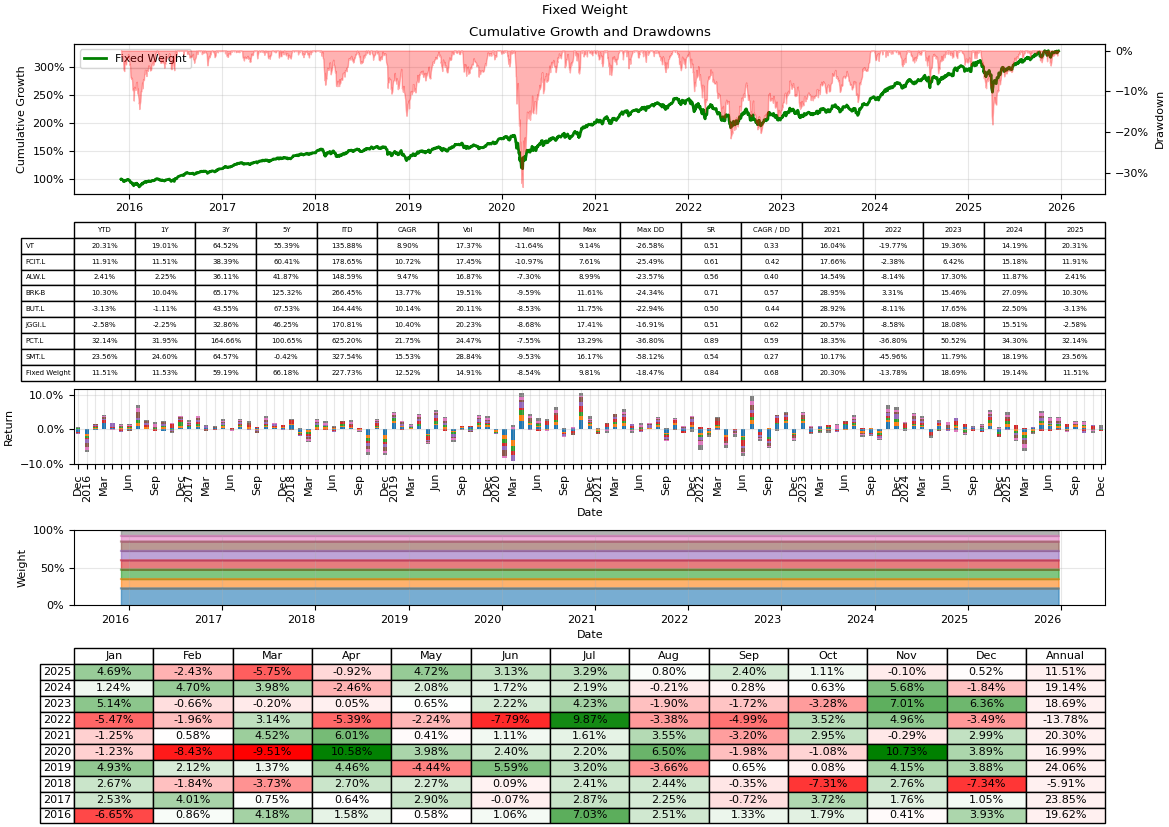
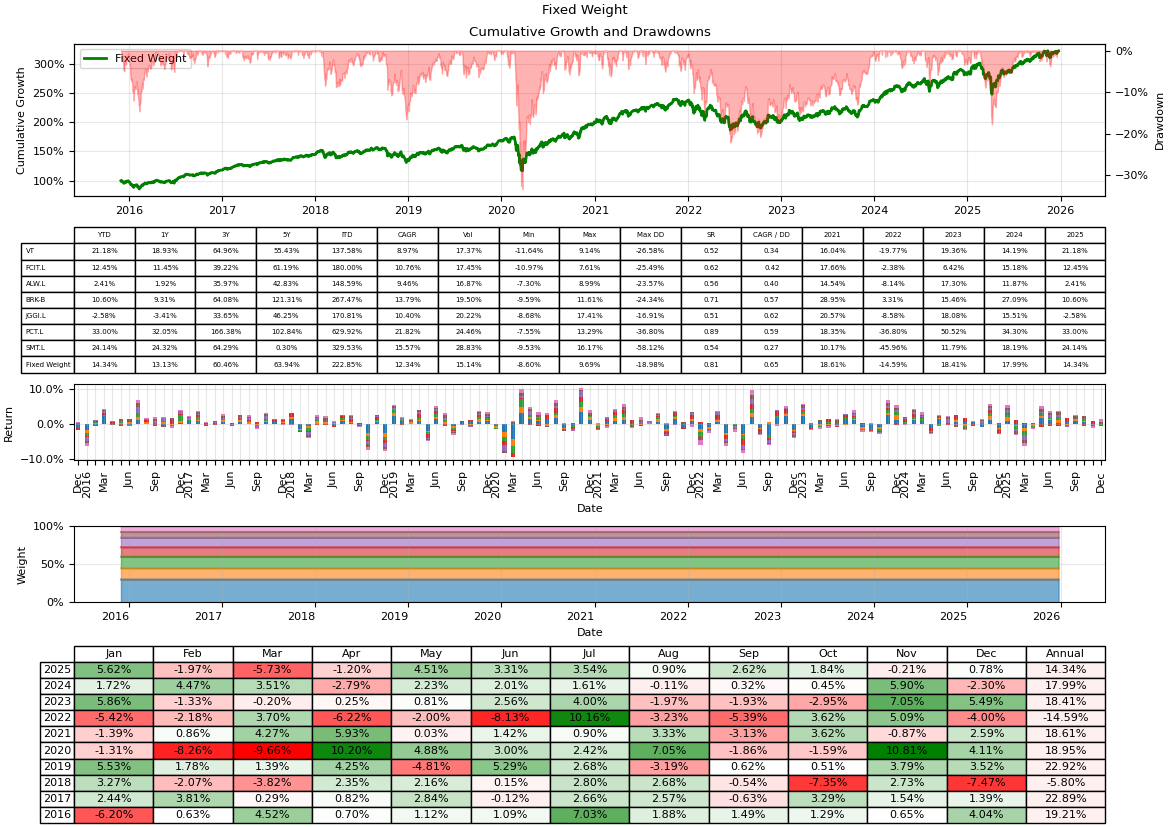
update proposed

diff --git a/src/pypension/main.py b/src/pypension/main.py
@@ -18,12 +18,11 @@ def main() -> None:
     # define fixed weight portfolio
     weights: dict[str, float] = {
         # index
-        "VT": 0.225,
-        "FCIT.L": 0.125,
-        "ALW.L": 0.125,
+        "VT": 0.30,
+        "FCIT.L": 0.15,
+        "ALW.L": 0.15,
         # active
         "BRK-B": 0.125,
-        "BUT.L": 0.125,
         "JGGI.L": 0.125,
         # tech
         "PCT.L": 0.075,

diff --git a/src/pypension/data.py b/src/pypension/data.py
@@ -25,7 +25,7 @@ def download(
 
 def clean(df_data: pd.DataFrame) -> pd.DataFrame:
     scaling_factors = [
-        ("IGET.L", pd.Timestamp(2025, 1, 10, tzinfo=TIME_ZONE), 100),
+        # ("IGET.L", pd.Timestamp(2025, 1, 10, tzinfo=TIME_ZONE), 100),
     ]
 
     for ticker, date, scaling_factor in scaling_factors:
